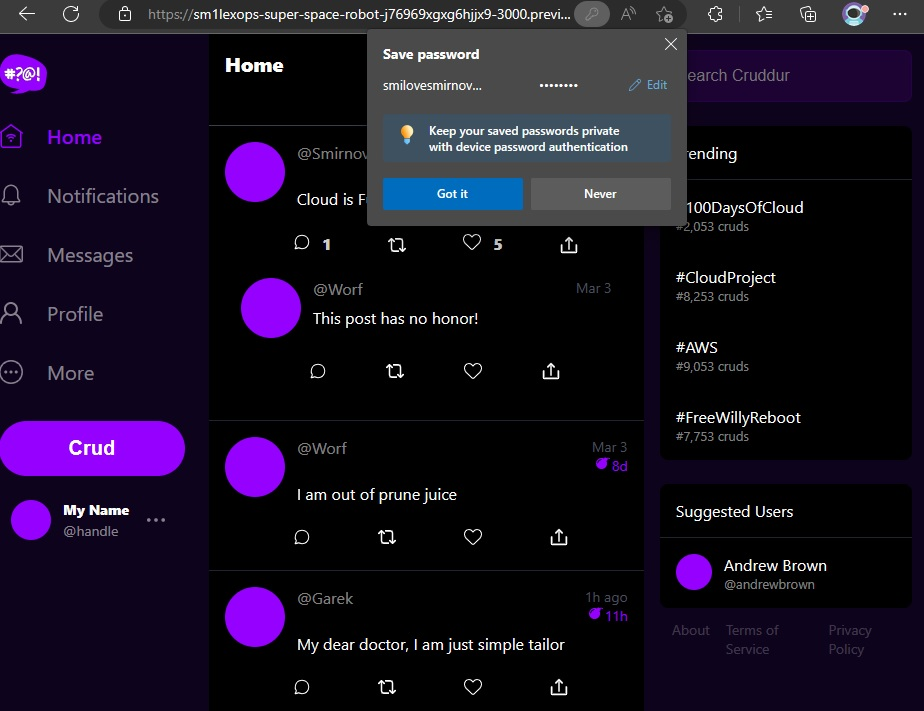
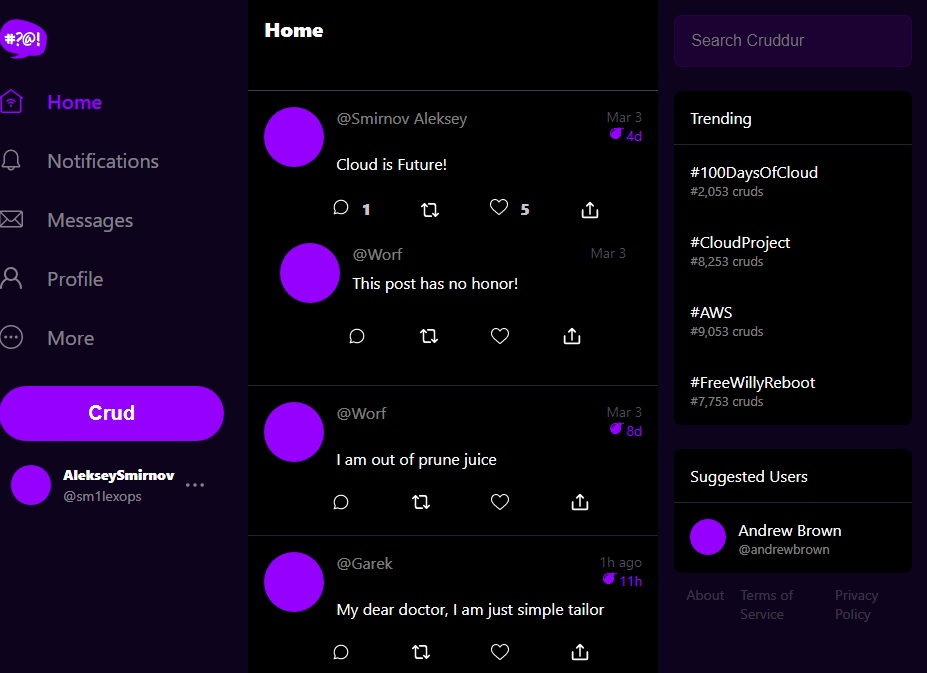
implement signin

diff --git a/journal/week3.md b/journal/week3.md
@@ -140,7 +140,11 @@ aws cognito-idp admin-set-user-password \
 > --permanent
 ```
 
-After that you should get authorized
+> For correct display loggin user, set user attributes in Cognito   
+
+![Attribute Name](assets/cognito_user_attribute.jpg)
+
+After that you should get authorized, and see your name in the left lower corner
 
 ![Login to Application](assets/success_signin_page.jpg)
 
@@ -176,4 +180,4 @@ After that you should get authorized
   }
 ```
 
-> For correct display loggin user, set user attributes in Cognito   
+>
